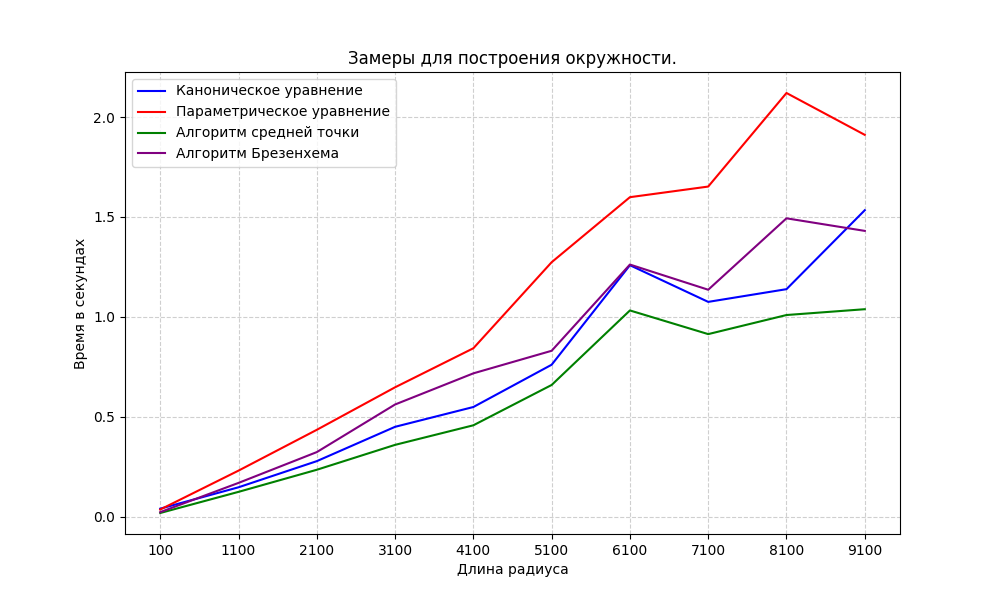
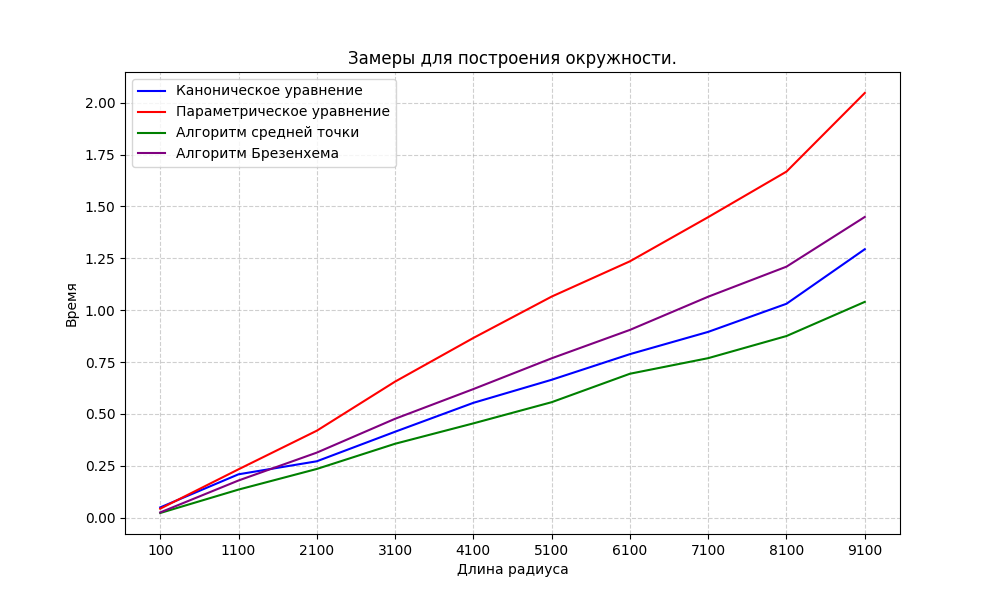
complete

diff --git a/lab_04/design.py b/lab_04/design.py
@@ -14,7 +14,7 @@ from PyQt5 import QtCore, QtGui, QtWidgets
 class Ui_MainWindow(object):
     def setupUi(self, MainWindow):
         MainWindow.setObjectName("MainWindow")
-        MainWindow.resize(1616, 1084)
+        MainWindow.resize(1614, 1079)
         self.centralwidget = QtWidgets.QWidget(MainWindow)
         self.centralwidget.setObjectName("centralwidget")
         self.canvas = QtWidgets.QLabel(self.centralwidget)
@@ -232,7 +232,7 @@ class Ui_MainWindow(object):
         self.pushButtonData.setObjectName("pushButtonData")
         MainWindow.setCentralWidget(self.centralwidget)
         self.menubar = QtWidgets.QMenuBar(MainWindow)
-        self.menubar.setGeometry(QtCore.QRect(0, 0, 1616, 33))
+        self.menubar.setGeometry(QtCore.QRect(0, 0, 1614, 33))
         self.menubar.setObjectName("menubar")
         MainWindow.setMenuBar(self.menubar)
         self.statusbar = QtWidgets.QStatusBar(MainWindow)
@@ -241,6 +241,24 @@ class Ui_MainWindow(object):
 
         self.retranslateUi(MainWindow)
         QtCore.QMetaObject.connectSlotsByName(MainWindow)
+        MainWindow.setTabOrder(self.pushButtonColorBG, self.pushButtonColorCircle)
+        MainWindow.setTabOrder(self.pushButtonColorCircle, self.comboBox)
+        MainWindow.setTabOrder(self.comboBox, self.lineEditCX)
+        MainWindow.setTabOrder(self.lineEditCX, self.lineEditCY)
+        MainWindow.setTabOrder(self.lineEditCY, self.lineEditCircleR)
+        MainWindow.setTabOrder(self.lineEditCircleR, self.pushButtonDrawCircle)
+        MainWindow.setTabOrder(self.pushButtonDrawCircle, self.lineEditElipseH)
+        MainWindow.setTabOrder(self.lineEditElipseH, self.lineEditElipseW)
+        MainWindow.setTabOrder(self.lineEditElipseW, self.pushButtonDrawEllipse)
+        MainWindow.setTabOrder(self.pushButtonDrawEllipse, self.lineEditCircleSpectorR)
+        MainWindow.setTabOrder(self.lineEditCircleSpectorR, self.lineEditStep)
+        MainWindow.setTabOrder(self.lineEditStep, self.lineEditCount)
+        MainWindow.setTabOrder(self.lineEditCount, self.pushButtonDrawSpectorCircle)
+        MainWindow.setTabOrder(self.pushButtonDrawSpectorCircle, self.lineEditElipseSpectorW)
+        MainWindow.setTabOrder(self.lineEditElipseSpectorW, self.lineEditElipseSpectorH)
+        MainWindow.setTabOrder(self.lineEditElipseSpectorH, self.pushButtonDrawSpectorEllipse)
+        MainWindow.setTabOrder(self.pushButtonDrawSpectorEllipse, self.pushButtonClear)
+        MainWindow.setTabOrder(self.pushButtonClear, self.pushButtonData)
 
     def retranslateUi(self, MainWindow):
         _translate = QtCore.QCoreApplication.translate

diff --git a/lab_04/main.py b/lab_04/main.py
@@ -155,19 +155,19 @@ class MainApp(QMainWindow, Ui_MainWindow):
             self.time_ellipse.canonical.append((finish - start) * 1_000)
 
             start = time()
-            mainPainter(painter, pen, Ellipse(0, 0, radius, radius, self.colorPen, Methods.METHOD_PARAM),
+            mainPainter(painter, pen, Ellipse(0, 0, radius, radius + 20, self.colorPen, Methods.METHOD_PARAM),
                         False)
             finish = time()
             self.time_ellipse.param.append((finish - start) * 1_000)
 
             start = time()
-            mainPainter(painter, pen, Ellipse(0, 0, radius, radius, self.colorPen, Methods.METHOD_AVERAGE),
+            mainPainter(painter, pen, Ellipse(0, 0, radius, radius + 20, self.colorPen, Methods.METHOD_AVERAGE),
                         False)
             finish = time()
             self.time_ellipse.middle.append((finish - start) * 1_000)
 
             start = time()
-            mainPainter(painter, pen, Ellipse(0, 0, radius, radius, self.colorPen, Methods.METHOD_BRESENHAM),
+            mainPainter(painter, pen, Ellipse(0, 0, radius, radius + 20, self.colorPen, Methods.METHOD_BRESENHAM),
                         False)
             finish = time()
             self.time_ellipse.bresenham.append((finish - start) * 1_000)

diff --git a/lab_04/timeanalysis.py b/lab_04/timeanalysis.py
@@ -21,23 +21,17 @@ class DatasetEllipse:
 
 
 def create_one_graphic(canonical, param, middle, bresenham, len_circle, title, name, step=10):
-    """
-    Параметры:
-    - step: шаг, с которым берутся точки из массивов (по умолчанию 10).
-    """
     plt.figure(figsize=(10, 6))
     plt.xlabel('Длина радиуса')
-    plt.ylabel('Время в секундах')
+    plt.ylabel('Время')
     plt.title(title)
 
-    # Берём только каждую step-ую точку из массивов
     len_circle_thinned = len_circle[::step]
     canonical_thinned = canonical[::step]
     param_thinned = param[::step]
     middle_thinned = middle[::step]
     bresenham_thinned = bresenham[::step]
 
-    # Строим графики по прореженным данным
     plt.plot(
         len_circle_thinned, canonical_thinned,
         linestyle='-', color='blue', markersize=5, label="Каноническое уравнение"
